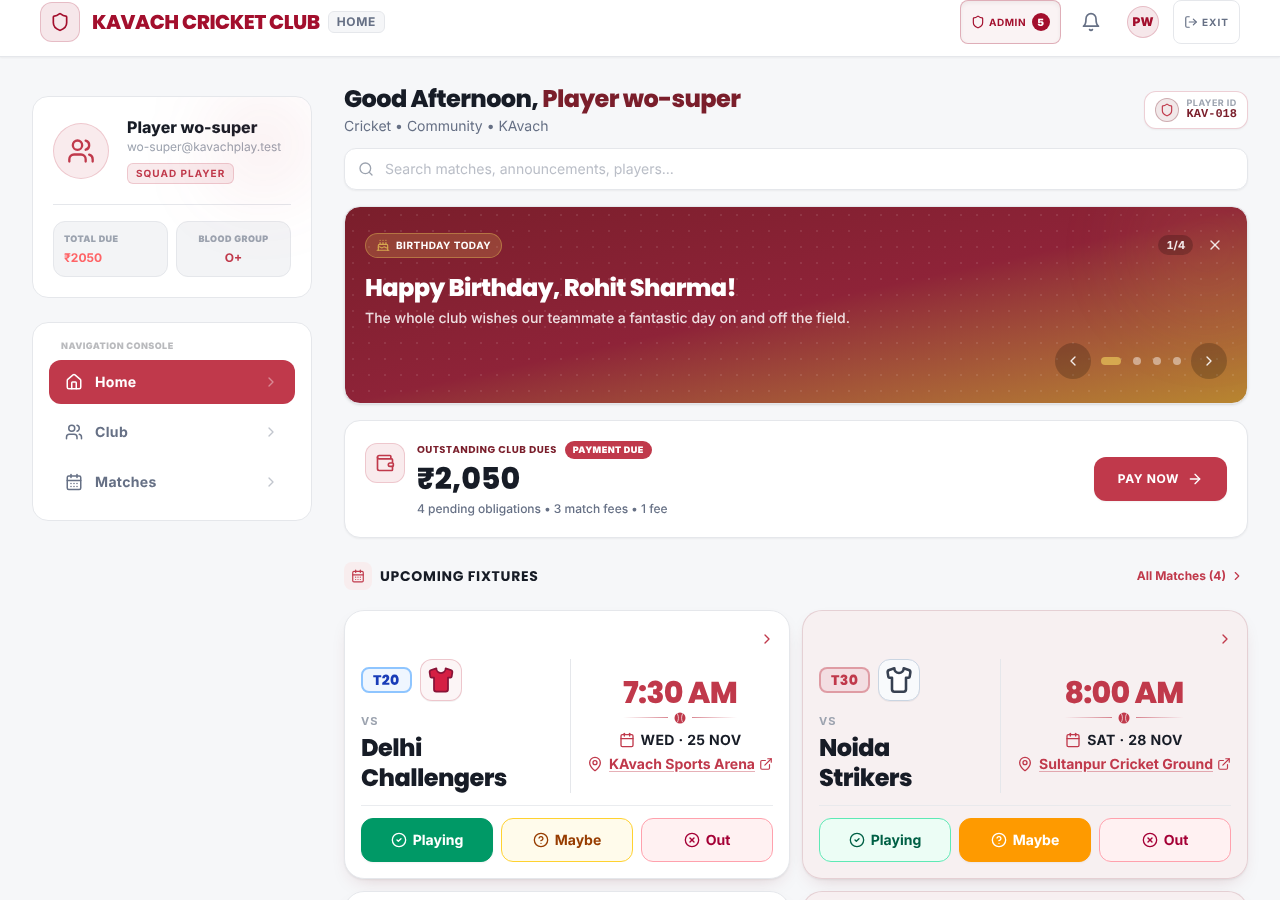
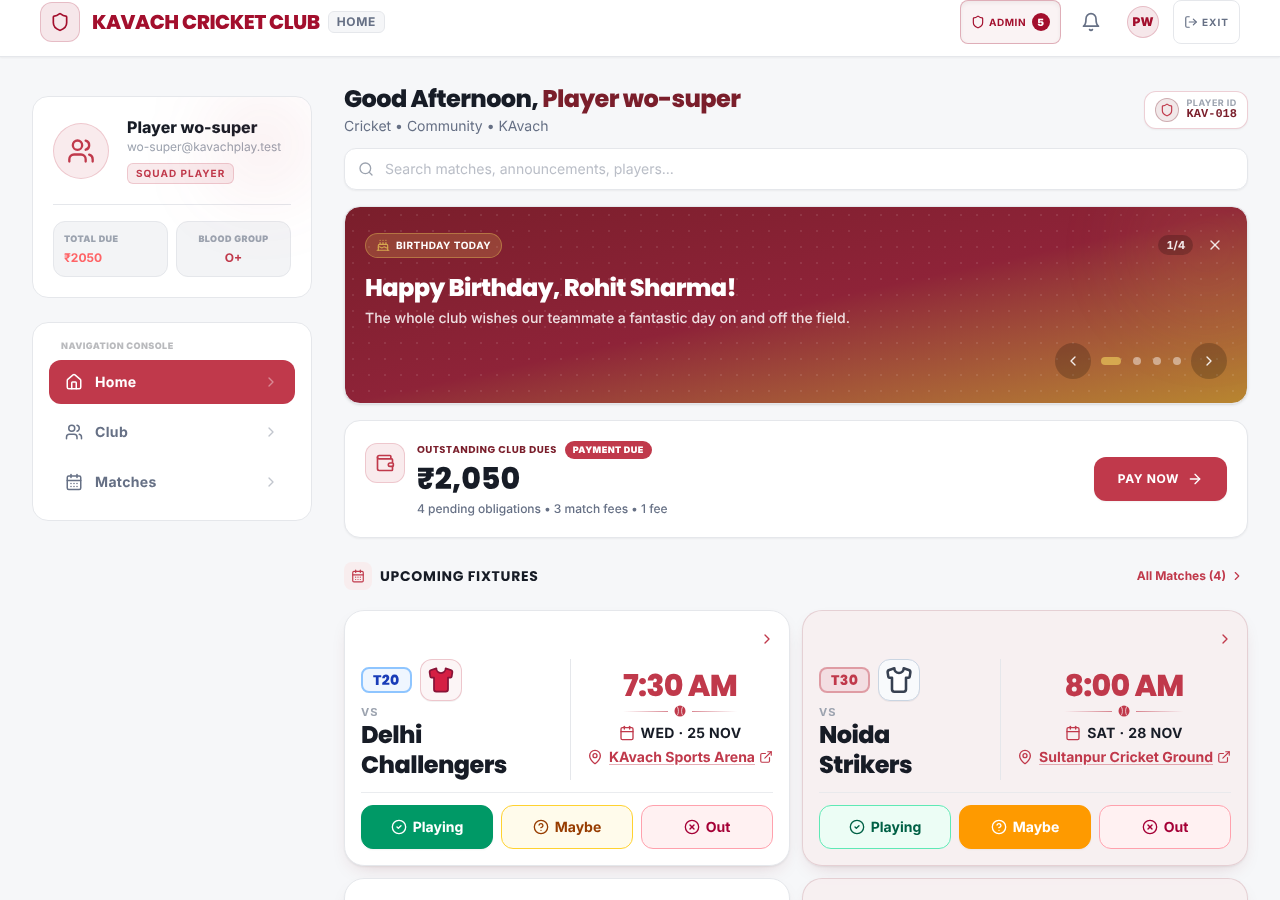
fix(match-card): keep the space between vs and the opponent; record full e2e and build
The shared vs label dropped the space in the main card header, so the text
read 'vsDelhi Challengers' (caught by player-match-center-behavioral 1 and 2).

Claude-Session: https://claude.ai/code/session_011Kgkw6RtgjqUZgmrZheHCd

Changed region(s): [[0.2812, 0.7467, 0.9688, 0.9956], [0.4375, 0.7467, 0.5938, 0.8711], [0.625, 0.7778, 0.7188, 0.8711]]

diff --git a/components/matches/MatchCardHeader.tsx b/components/matches/MatchCardHeader.tsx
@@ -299,7 +299,7 @@ export function MatchCardHeader({ match, ground, meta, hideResult = false, resul
             {match.jerseyColor && <JerseyInfographic color={match.jerseyColor} size="xl" />}
           </div>
           <div className="min-w-0">
-            <MatchVsLabel match={match} />
+            <MatchVsLabel match={match} />{" "}
             <div className="mt-0.5 flex items-start gap-2 min-w-0" data-testid={`match-opponent-line-${match.id}`}>
               <h3 className="min-w-0 flex-1 text-lg @sm:text-2xl font-black font-heading text-text-primary tracking-tight leading-tight break-words line-clamp-2">
                 {match.opponent}

diff --git a/docs/qa/weekend-match-operations/IMPLEMENTATION_REPORT.md b/docs/qa/weekend-match-operations/IMPLEMENTATION_REPORT.md
@@ -147,8 +147,18 @@ See §9 for counts. Key emulator scenarios, all run against the real route code 
 | Unit / functional | `npm run test:functional` | 1119 / 1119 pass, 0 skipped (33 new) |
 | Emulator (rules, payments, identity, new routes) | `node scripts/run-emulator-tests.mjs` | 461 / 461 pass, 0 skipped (17 new) |
 | New e2e | `npx playwright test e2e/weekend-match-operations.spec.ts` | 9 / 9 (Desktop Chrome) |
-| Full e2e | `npx playwright test` | _see §9a_ |
-| Build | `GIT_BRANCH=mig-mov npm run build` | _see §9a_ |
+| Full e2e (Desktop + Mobile Chrome) | `npx playwright test` | 251 passed, 21 failed, 98 skipped (credential-gated, not executed) — see §9a |
+| Re-run after fix | `npx playwright test e2e/player-match-center-behavioral.spec.ts e2e/weekend-match-operations.spec.ts` | 46 / 46 (both projects) |
+| Build | `GIT_BRANCH=mig-mov npm run build` | Pass (30/30 pages) |
+
+### 9a. Full e2e breakdown
+
+- **17 failures are pre-existing** and also fail before D-16:
+  - `match-center-corrections` ×2;
+  - `player-home-behavioral` 1 / 2 / 2B / 4D / 4E / 4G;
+  - both of the above on both projects;
+  - `production-app` 3 on Desktop.
+- **4 failures were caused by this workstream and are fixed.** `player-match-center-behavioral` 1 and 2 failed on both projects because the shared "vs" label dropped the space between "vs" and the opponent: the text read "vsDelhi Challengers", which screen readers would also read. The space is restored, a unit test now guards it, and both specs plus the weekend suite re-ran 46 / 46.
 
 ## 10. Limitations and residual risks
 
